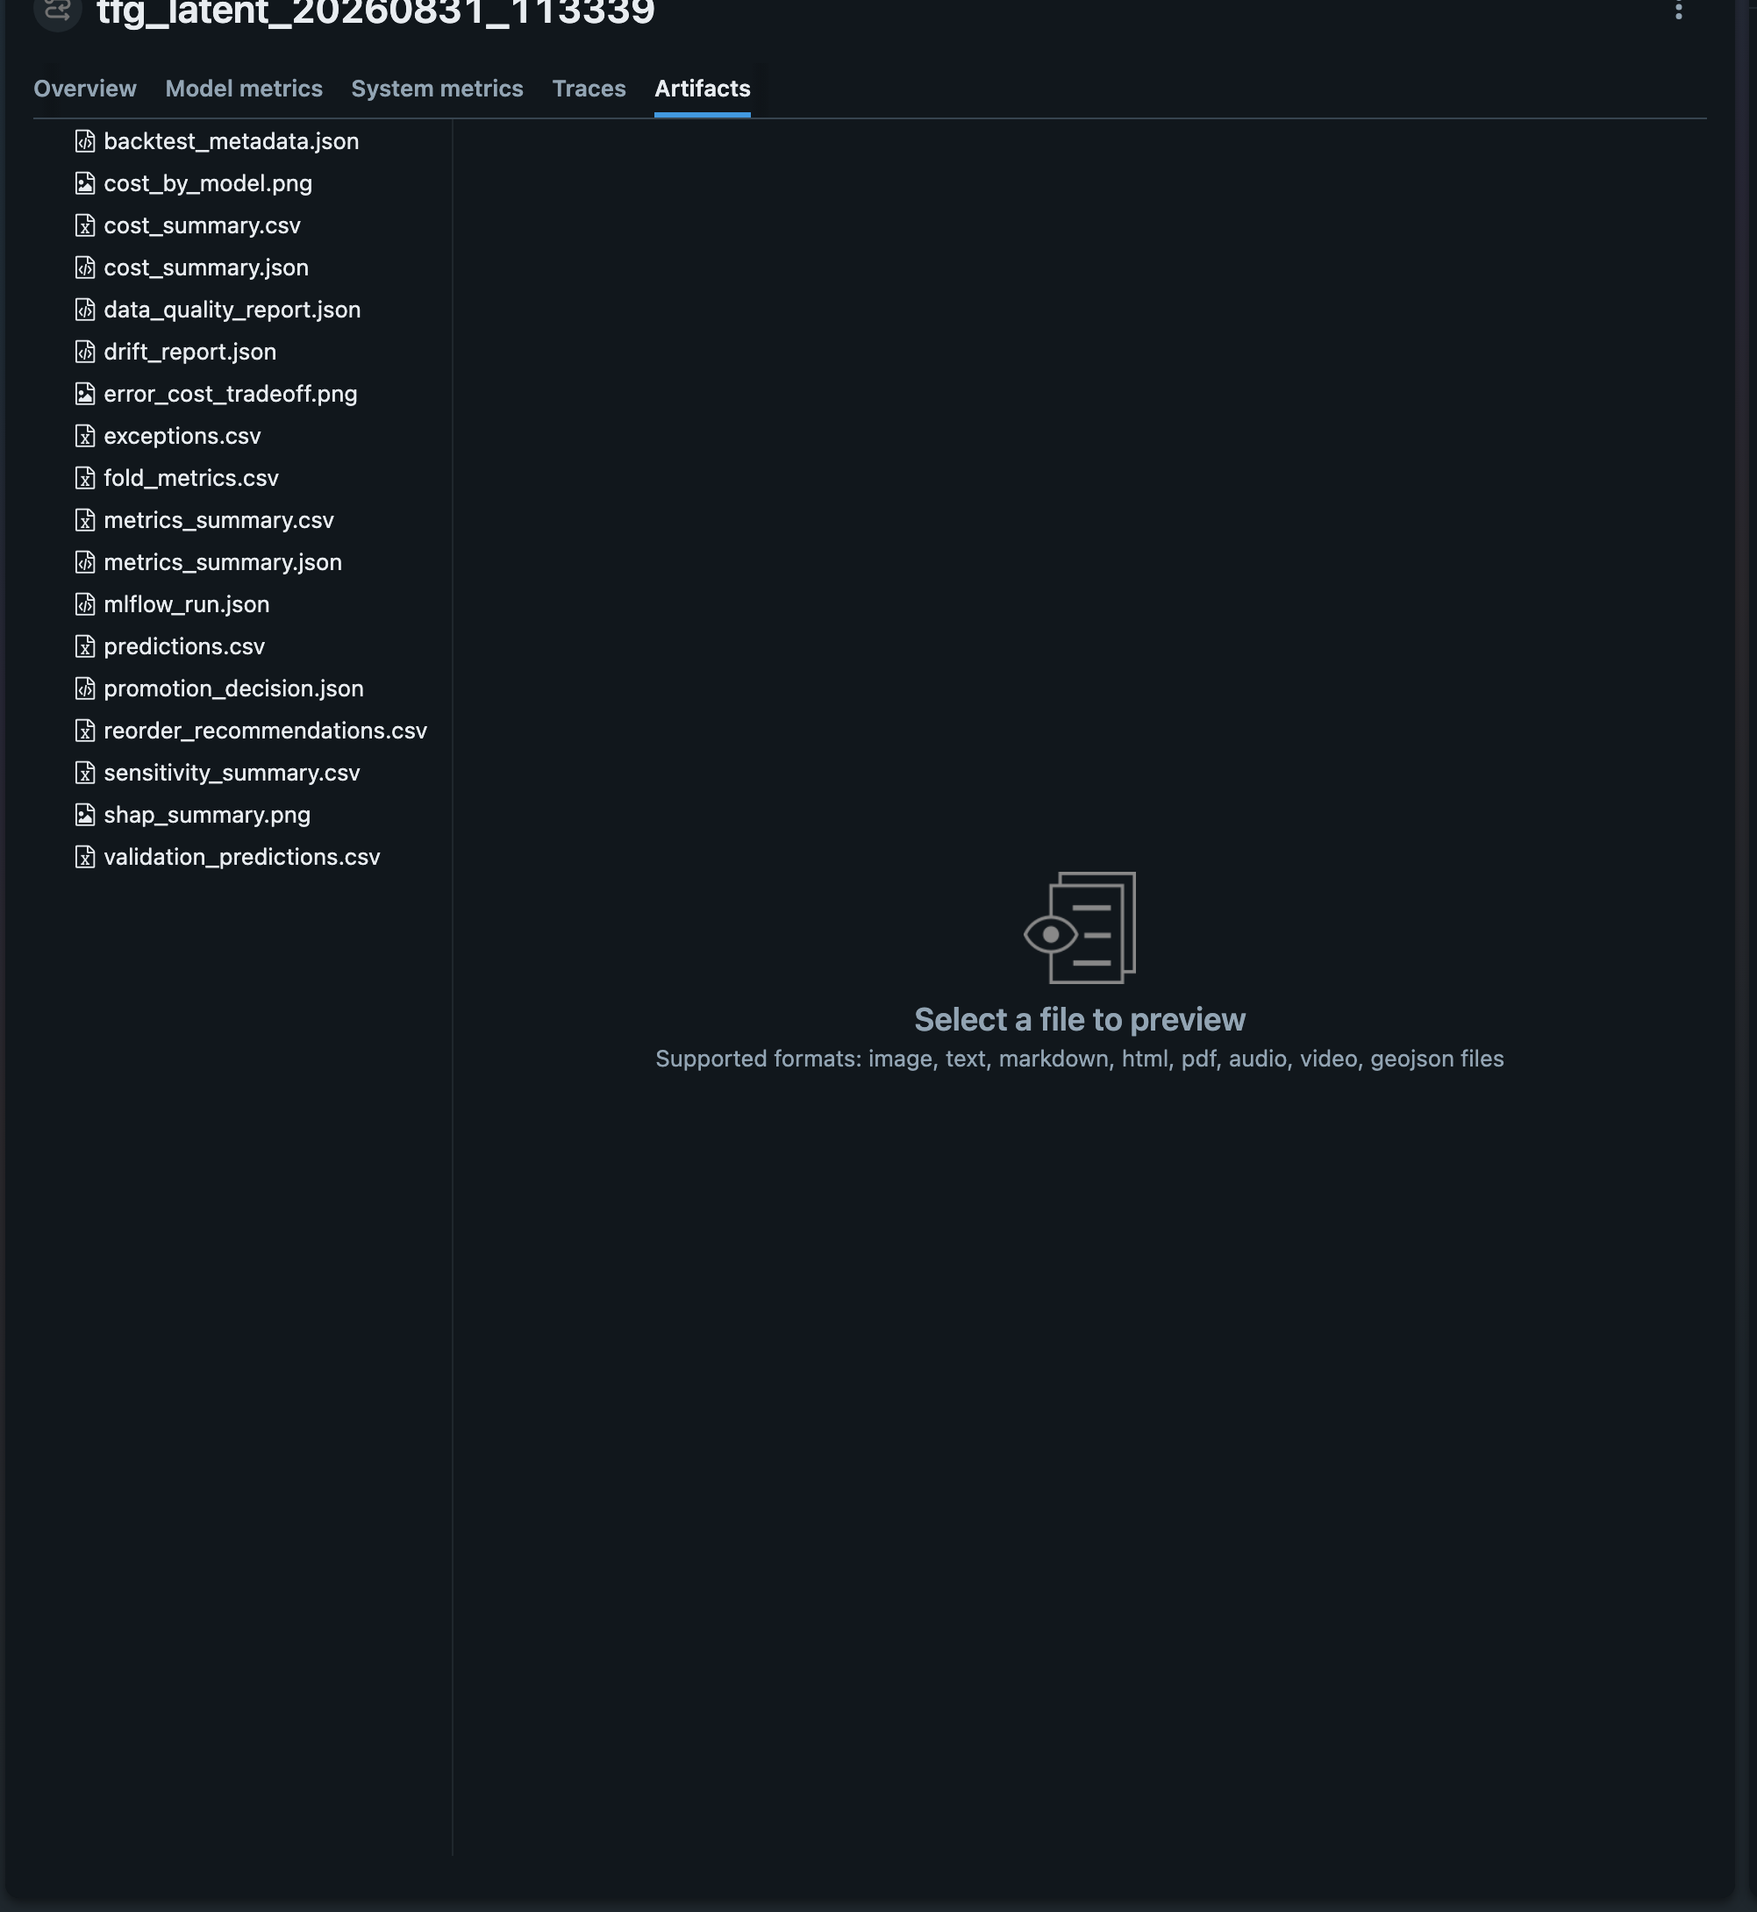
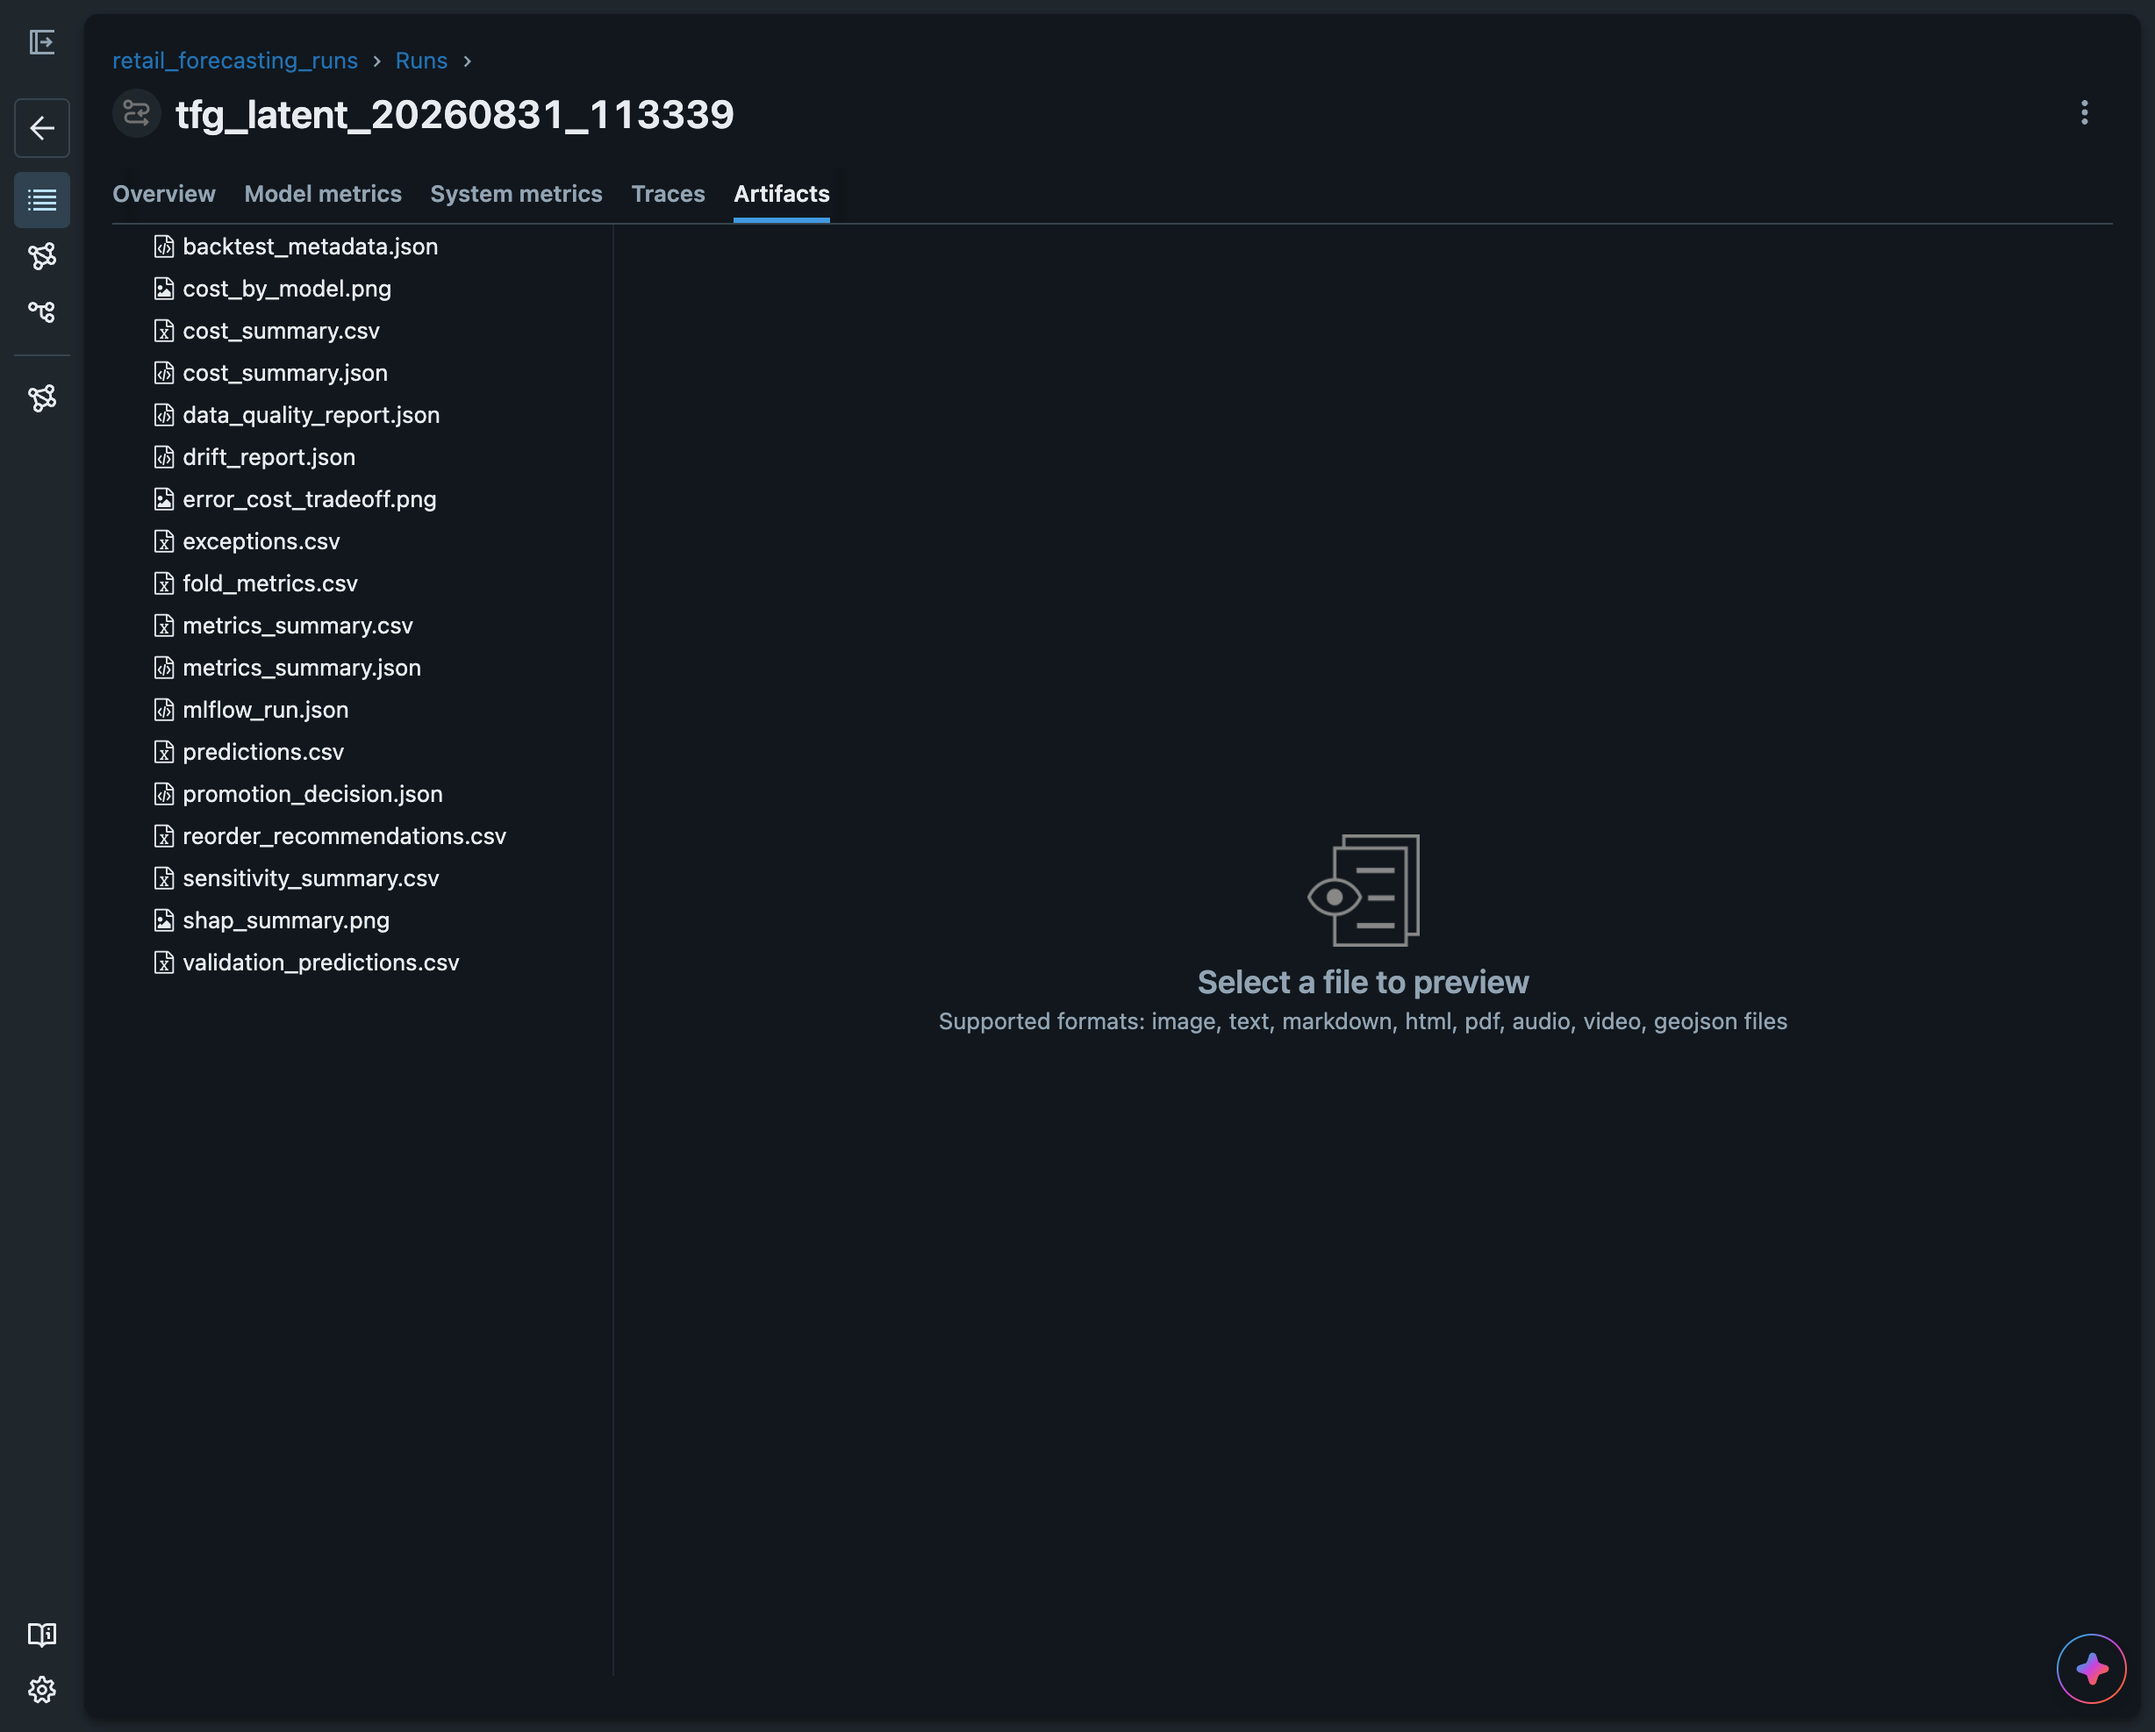
docs(memoria): sustituir las capturas de mlflow por las del navegador real
Las que habia generado por linea de comandos salian con la barra lateral de GenAI
y el panel del asistente, porque Chrome sin perfil arranca en ese modo, y con la
miga de pan etiquetando las corridas como Evaluations. Estas cuatro estan tomadas
desde el navegador en modo Model training, a 2456 px y sin recortar. Cambia lo
que muestran, asi que se reescriben los pies: la tabla de corridas no lleva
columnas de metricas pero si el par emparejado fijado arriba, el panel de
artefactos tiene abierto predictions.csv y no metrics_summary.csv, y la busqueda
de hiperparametros es la de catboost. Los PNG se recomprimen sin perdida.

diff --git a/memoria/chapters/anexo_mlflow.tex b/memoria/chapters/anexo_mlflow.tex
@@ -9,52 +9,69 @@ porque es la evidencia de que las cifras que la memoria publica proceden de ejec
 registradas y no de un cuaderno de trabajo.
 
 Las capturas se han tomado sobre el almacén del propio repositorio (\texttt{mlflow.db} y
-\texttt{mlruns/}), navegable con \texttt{make mlflow-ui}. Se recorta en todas ellas la columna de
-contenido, dejando fuera el menú lateral de la herramienta. La Figura~\ref{fig:mlflow_run_overview}
-muestra la ficha de una corrida y la Figura~\ref{fig:mlflow_run_artifacts} sus artefactos, ambas
-sobre la corrida que respalda el Capítulo~\ref{chap:resultados}; la
-Figura~\ref{fig:mlflow_tuning_convergence} recoge la convergencia de una búsqueda de
-hiperparámetros, que es el otro uso que el sistema hace del almacén.
+\texttt{mlruns/}), navegable con \texttt{make mlflow-ui}. La
+Figura~\ref{fig:mlflow_runs_table} recoge el inventario de corridas, las
+Figuras~\ref{fig:mlflow_run_overview} y~\ref{fig:mlflow_run_artifacts} el detalle y los
+artefactos de la que respalda el Capítulo~\ref{chap:resultados}, y la
+Figura~\ref{fig:mlflow_tuning_convergence} la convergencia de una búsqueda de hiperparámetros,
+que es el otro uso que el sistema hace del almacén.
 
 \begin{figure}[H]
     \centering
-    \includegraphics[width=\textwidth,height=0.78\textheight,keepaspectratio]{figures/mlflow/mlflow_run_overview.png}
-    \caption{Ficha de la corrida \texttt{tfg\_latent\_20260831\_113339}, que es la rama de demanda
-    reconstruida del experimento a 500 series y la fuente de la Tabla~\ref{tab:metrics_predictive}.
-    Lo relevante para la reproducibilidad son las \textbf{etiquetas}: \texttt{git\_commit} fija el
-    código que produjo el resultado, \texttt{config\_hash} la configuración resuelta con la que se
-    ejecutó, y \texttt{series}, \texttt{panel\_rows} y \texttt{supervised\_rows} la escala a la que
-    se midió, que es el campo sin el cual dos corridas no son comparables (Anexo~\ref{anx:tuning_imputador}).
-    Debajo, las 72 métricas de la corrida indexadas por modelo y estrategia de datos: las tres
-    primeras visibles son el MAE y el RMSE de CatBoost sobre demanda latente, exactamente los
-    valores que recoge el Capítulo~\ref{chap:resultados}.}
+    \includegraphics[width=\textwidth,height=0.80\textheight,keepaspectratio]{figures/mlflow/mlflow_runs_table.png}
+    \caption{Inventario del experimento \texttt{retail\_forecasting\_runs}, con 27 corridas
+    registradas. Arriba, fijadas, las dos que sostienen el Capítulo~\ref{chap:resultados}:
+    \texttt{tfg\_latent\_20260831\_113339} y \texttt{tfg\_observed\_20260831\_112611}. Que
+    aparezcan juntas no es casual, y es lo que la Sección~\ref{sec:resultados_censura} necesita:
+    son un \textbf{par emparejado} lanzado con el mismo código y la misma configuración, que
+    difiere únicamente en el brazo de demanda. Debajo se distinguen las corridas del
+    \textit{backtest} de coste justo, incluidas las repeticiones con distinta semilla de muestreo
+    con las que se acotó la sensibilidad de la Sección~\ref{sec:resultados_gemelo}.}
+    \label{fig:mlflow_runs_table}
+\end{figure}
+
+\begin{figure}[H]
+    \centering
+    \includegraphics[width=\textwidth,height=0.80\textheight,keepaspectratio]{figures/mlflow/mlflow_run_overview.png}
+    \caption{Ficha de la corrida \texttt{tfg\_latent\_20260831\_113339}, la rama de demanda
+    reconstruida del experimento a 500 series. Lo decisivo para la reproducibilidad son las
+    \textbf{etiquetas} de la derecha: \texttt{git\_commit} fija el código que produjo el
+    resultado, \texttt{config\_hash} la configuración resuelta con la que se ejecutó, y
+    \texttt{series}, \texttt{panel\_rows} y \texttt{supervised\_rows} la escala a la que se
+    midió, que es el campo sin el cual dos corridas no son comparables
+    (Anexo~\ref{anx:tuning_imputador}). A la izquierda, las 72 métricas indexadas por modelo y
+    estrategia de datos (el MAE de CatBoost, 11{,}719, y el de LightGBM, 8{,}061, son los que
+    recoge la Tabla~\ref{tab:metrics_predictive}) y los 57 parámetros de la configuración, entre
+    ellos \texttt{dataset.top\_n\_series} $=500$ y \texttt{preprocessing.imputation\_strategy}
+    $=$ \texttt{supervised}.}
     \label{fig:mlflow_run_overview}
 \end{figure}
 
 \begin{figure}[H]
     \centering
-    \includegraphics[width=\textwidth,height=0.78\textheight,keepaspectratio]{figures/mlflow/mlflow_run_artifacts.png}
-    \caption{Artefactos de esa misma corrida. Conviven los dos resúmenes que el
+    \includegraphics[width=\textwidth,height=0.80\textheight,keepaspectratio]{figures/mlflow/mlflow_run_artifacts.png}
+    \caption{Artefactos de esa misma corrida, con \texttt{predictions.csv} abierto en el panel de
+    previsualización. La ruta que encabeza el panel muestra que el fichero vive dentro del
+    directorio de la corrida, sin copia intermedia. En la lista conviven los dos resúmenes que el
     Capítulo~\ref{chap:resultados} explota por separado (\texttt{metrics\_summary.csv} para la
-    calidad del pronóstico y \texttt{cost\_summary.csv} para la de la decisión), los dos ficheros
-    de predicciones que se computan sobre conjuntos de filas distintos
-    (\texttt{validation\_predictions.csv} y \texttt{predictions.csv}), y el resto de salidas que la
-    Sección~\ref{sec:experiment_tracking} enumera: el desglose por \textit{fold}, la decisión de
-    promoción, el plan de reposición, las excepciones marcadas y los informes de calidad y de
-    deriva. Con estos ficheros cualquier métrica publicada es recomputable sin volver a entrenar.}
+    calidad del pronóstico y \texttt{cost\_summary.csv} para la de la decisión) y los dos ficheros
+    de predicciones que se computan sobre conjuntos de filas distintos: el que está abierto lleva
+    una fila por origen de decisión, con su demanda objetivo a \textit{lead time} y su régimen de
+    rotura. Con estos ficheros cualquier métrica publicada es recomputable sin volver a entrenar.}
     \label{fig:mlflow_run_artifacts}
 \end{figure}
 
 \begin{figure}[H]
     \centering
-    \includegraphics[width=0.92\textwidth]{figures/mlflow/mlflow_tuning_convergence.png}
-    \caption{Convergencia de la búsqueda de hiperparámetros del modelo de \textit{forecasting}
-    (corrida \texttt{forecasting\_lightgbm\_v4}, 60 \textit{trials}), registrada métrica a métrica
-    con el número de \textit{trial} como paso. A la izquierda el coste de cada \textit{trial}, que
-    recorre un rango de 22 a 30 sin tendencia aparente: la superficie de respuesta es ruidosa. A la
-    derecha el mejor coste acumulado, que cae una sola vez en torno al \textit{trial} 20 y se
-    mantiene plano durante los cuarenta restantes. La lectura conjunta es la que justifica el
-    protocolo del Anexo~\ref{anx:tuning_imputador}: el valor objetivo de un \textit{trial} suelto
-    dice poco, porque la dispersión entre ellos domina la diferencia entre configuraciones.}
+    \includegraphics[width=\textwidth,height=0.80\textheight,keepaspectratio]{figures/mlflow/mlflow_tuning_convergence.png}
+    \caption{Métricas registradas por la búsqueda de hiperparámetros
+    \texttt{forecasting\_catboost\_v4}, en el experimento \texttt{forecasting\_tuning}. Las dos
+    gráficas de la derecha son las que importan y hay que leer juntas: \texttt{trial\_cost} da el
+    coste de cada uno de los 60 \textit{trials}, que oscila sin tendencia entre 24 y 30, mientras
+    que \texttt{trial\_cost\_best\_so\_far} da el mejor acumulado, que desciende a saltos y se
+    estabiliza pasado el \textit{trial} 40. La dispersión entre \textit{trials} es del orden de la
+    mejora total de la búsqueda, que es exactamente la observación con la que el
+    Anexo~\ref{anx:tuning_imputador} justifica promediar sobre múltiples extracciones en lugar de
+    fiarse del valor objetivo de un \textit{trial} suelto.}
     \label{fig:mlflow_tuning_convergence}
 \end{figure}
